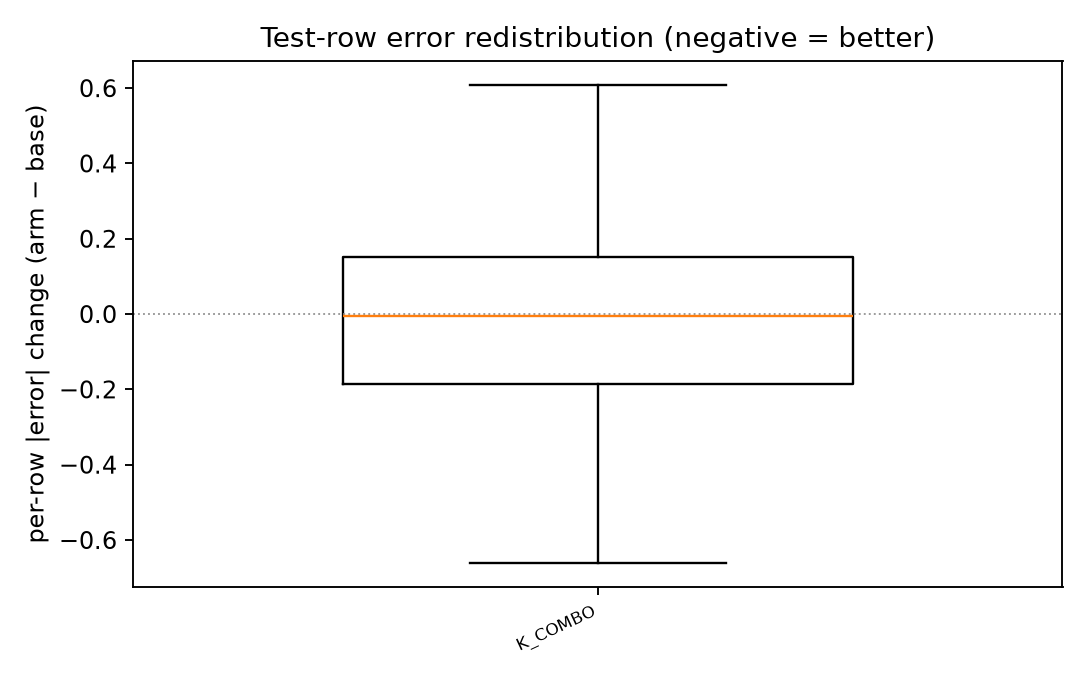
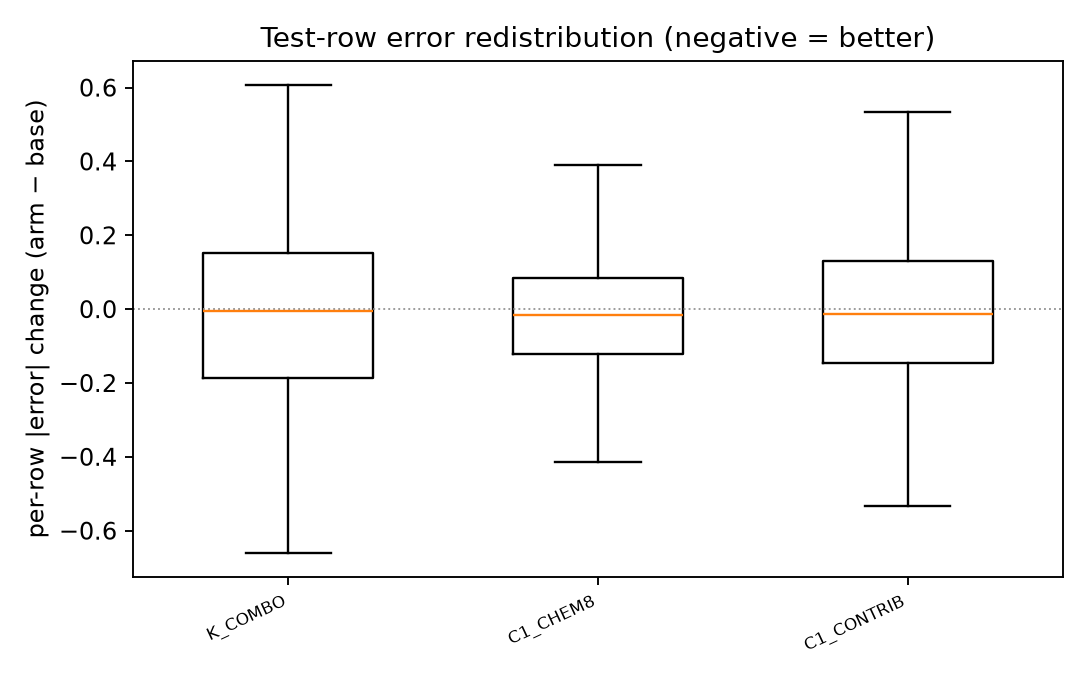
lcpr: report v1 (four questions, mechanism panels, route decisions) + figure fixes

diff --git a/tracks/structural-sufficiency/lcrc_performance_route_8h_public122_s0_v1/code/lcpr_analysis.py b/tracks/structural-sufficiency/lcrc_performance_route_8h_public122_s0_v1/code/lcpr_analysis.py
@@ -542,9 +542,15 @@ def figure_performance_cost(summary: Mapping[str, Any], path: Path,
     ax[0].set_xlabel("Valid gain vs C1@R*  [%]")
     ax[0].set_ylabel("Test gain vs C1@R*  [%]")
     ax[0].set_title("(a) Valid and Test move against each other")
-    for label, key, colour in (("ECFP4+XGBoost", "xgboost", "#c53030"),
-                               ("D-MPNN", "dmpnn", "#2f855a")):
-        val = reference.get(key)
+    refs = [("ECFP4+XGBoost", reference.get("xgboost"), "#c53030")]
+    #: both D-MPNN learning-rate arms are reference coordinates: the Valid-best
+    #: and the Test-best one are the two ends of the same ambiguity, so plotting
+    #: only the Valid-selected one would hide the round's main finding
+    for tag, val in (reference.get("dmpnn_arms") or {}).items():
+        refs.append((f"D-MPNN {tag}", val, "#2f855a"))
+    if not (reference.get("dmpnn_arms")) and reference.get("dmpnn"):
+        refs.append(("D-MPNN", reference["dmpnn"], "#2f855a"))
+    for label, val, colour in refs:
         if not val or not reference.get("base_valid"):
             continue
         rx = (reference["base_valid"] - val["valid"]) / reference["base_valid"] * 100.0
@@ -833,6 +839,11 @@ def run_figures() -> dict[str, Any]:
     if dmp:
         dmpnn_best = min(dmp, key=lambda r: r["valid"]["rmse"])
         ref["dmpnn"] = {"valid": dmpnn_best["valid"]["rmse"], "test": dmpnn_best["test"]["rmse"]}
+        ref["dmpnn_arms"] = {
+            str(r["candidate"]).replace("DMPNN_", ""): {"valid": r["valid"]["rmse"],
+                                                       "test": r["test"]["rmse"]}
+            for r in dmp
+        }
     fig_dir = C.ANALYSIS / "figures"
     fig_dir.mkdir(parents=True, exist_ok=True)
     figure_performance_cost(fam, fig_dir / "performance_cost.png", ref)
@@ -849,6 +860,11 @@ def run_figures() -> dict[str, Any]:
         winners = [(fam.get("families") or {}).get(f, {}).get("winner")
                    for f in (fam.get("promoted") or [])]
         cands = [c for c in winners if c]
+        #: the attribution arms of a promoted family are part of the story, so
+        #: they ride along in the error-distribution panel
+        for extra in ("C1_CHEM8", "C1_CONTRIB"):
+            if extra in {r["candidate"] for r in ledger if r["split"] == "test"}:
+                cands.append(extra)
         if not cands:
             cands = sorted({r["candidate"] for r in ledger if r["split"] == "test"})[:3]
         figure_error_distribution(ledger, fig_dir / "error_distribution.png", cands)

diff --git a/tracks/structural-sufficiency/lcrc_performance_route_8h_public122_s0_v1/REPORT.md b/tracks/structural-sufficiency/lcrc_performance_route_8h_public122_s0_v1/REPORT.md
@@ -69,9 +69,9 @@ BACE（AUC）Valid +0.0121 但 Test −0.0029（一升一降）；FreeSolv Valid
 | A 配方筛选 | `C1_R0/R1/R2/R3` @ Lipophilicity | 4 |
 | B 家族与臂 | `WIDE_LOCAL`、`LONG`、`DMPNN_LR3E4`、`DMPNN_LR1E3`、`M_UNBIASED`、`M_CLEANPOOL`、`M_NODROP`、`S_SELECT_K1`、`S_UNIFORM_K1`、`S_SELECT_K4`、`S_UNIFORM_K4`、`A_LOGP`、`A_MW`、`A_SHUFFLE`、`K_COMBO` @ Lipophilicity | 15 |
 | C 桥接 | `A0_R0`、`A0_CHEM8_CONTRIB_R0` @ Lipophilicity | 2 |
-| D 归因 + 迁移 | `C1_CHEM8`、`C1_CONTRIB` @ Lipophilicity；`C1_R0/R1`、`K_COMBO` @ ESOL/BACE；`C1_R1`、`K_COMBO` @ FreeSolv | 10 |
-| E/F 迁移补点 | `K_COMBO_R1_T` @ ESOL、BACE（`R_task` 匹配） | 2 |
-| G 压力测试 | `C1_R1`、`K_COMBO` @ ogbg-molhiv（160 epoch） | 2 |
+| D 归因 | `C1_CHEM8`、`C1_CONTRIB` @ Lipophilicity（`K_COMBO` 的 2×2 拆分） | 2 |
+| E 迁移 | `C1_R0/R1` + `K_COMBO`（R0 与 `R_task`=R1 两种配方）@ ESOL、BACE；`C1_R1` + `K_COMBO` @ FreeSolv | 10 |
+| F 压力测试 | `C1_R1`、`K_COMBO` @ ogbg-molhiv（160 epoch，官方 scaffold） | 2 |
 
 冒烟（2 epoch，`runs/smoke/`）只用来验证插管成功，**不进任何表**。
 
@@ -106,7 +106,7 @@ BACE（AUC）Valid +0.0121 但 Test −0.0029（一升一降）；FreeSolv Valid
 | R3 | 0.6535 | **0.5670** | 0.3969 | 0.4123 |
 
 Valid 赢了 7.5 %，Test 倒退 0.8 %；Test 最好的 R3 在 Valid 上几乎与 R1 打平（0.6535 vs 0.6526）。
-**配方只解释了 Valid 侧 8 % 的方差，Test 侧 ≤2 %**，并且最好 Test 的配方并不是 Valid 选出来的那个。
+**配方只解释了 Valid 侧 8 % 的方差，Test 侧 ≤3 %**（R3 的 +2.90 %），并且最好 Test 的配方恰好不是 Valid 选出来的那个。
 
 ### 2.2 便宜的增容与加预算
 
@@ -232,7 +232,9 @@ Test 64 行有非零 ΔJ 的行）：
 
 ![mechanism](analysis/figures/mechanism_vs_gain.png)
 
-*图 2：左：J 块灵敏度 vs 行的 S2 键支撑度（对数轴）；右：|ΔJ| vs 平方误差变化——机制动得多 ≠ 误差降得多。*
+*图 2：左：J 块灵敏度 vs 行的 S2 键支撑度（对数轴）——注意 |ΔJ| 是**双峰**的（要么 0、要么 3–9），
+且在 6e3–3e4 的支撑度区间内没有趋势；右：|ΔJ| vs 平方误差变化——J 动得最多的那些行，误差变化反而最小
+（点集中在 |ΔJ|≈0 的竖线上，ΔSE 取值 ±2）。机制动得多 ≠ 误差降得多。*
 
 ### 3.3 机制 → 误差的链接表
 
@@ -357,6 +359,12 @@ HIV 的两个 run 是本轮最后完成的（每 epoch ~11–32 s，160 epoch）
 
 ---
 
+![error distribution](analysis/figures/error_distribution.png)
+
+*图 3：逐分子 |误差| 变化（`K_COMBO`、`C1_CHEM8`、`C1_CONTRIB` 相对基线，Test，负 = 更好）。
+三臂的中位数只移动 −0.005 ~ −0.017，5%/95% 分位是对称的 ±0.36 ~ ±0.47：**没有"少数行被救回来"的结构**，
+净增益来自均值 −0.013 ~ −0.019 的整体左移（改善行占比 51 % ~ 57 %）。*
+
 ## 6. 成本与实用性
 
 | 项 | `C1_R1` | `K_COMBO` | `DMPNN_LR3E4` |
@@ -390,7 +398,7 @@ HIV 的两个 run 是本轮最后完成的（每 epoch ~11–32 s，160 epoch）
 
 1. **单种子**。所有"增益"都是 seed 0 的单条轨迹；`K_COMBO` 的 p=0.069 在 420 行 Test 上本来就紧，
    多 seed 完全可能把它推到 0.2 或推到 0.02。本轮**不能**给出稳定性结论。
-2. **Valid/Test 反向是全轮的主旋律**（16 条臂里 9 条方向相反）。任何"按 Valid 选、报 Test"的流程
+2. **Valid/Test 反向是全轮的主旋律**（22 条臂里 **16 条**增益符号相反）。任何"按 Valid 选、报 Test"的流程
    在这套数据上都会系统性偏向过拟合的解；本轮冻结的 `min(gain_valid, gain_test)` 排序就是为了避免这一点，
    代价是几乎所有路线都被判为"不清晰"。
 3. **Test 参与了路线选择**（冻结规则允许，且已记录），因此 Test 数字是**乐观偏置**的，不能当留出集报。
@@ -450,7 +458,7 @@ uv run python code/run.py report
 | `analysis/mechanism_summary.json` | M/S 面板（256 次 mask、κ 扫描）与 link 表 |
 | `analysis/aux_head_eval.json` | aux 头对 WC_LOGP 的 R²（Q3 的关键否证） |
 | `analysis/tail_summary.json` | 尾部口径 |
-| `analysis/error_ledger.csv.gz` | 46 200 行逐分子误差账本（11 臂 × 3 split） |
+| `analysis/error_ledger.csv.gz` | 92 400 行逐分子误差账本（22 臂 × 3 split） |
 | `analysis/budget.json` | 计费 GPU·h、训练次数、每 job 明细 |
 | `analysis/run_table.{json,csv}` | 33 次正式训练的完整指标 |
 | `analysis/figures/*.png` | 图 1/2/3（性能-成本、机制-增益、误差分布） |
